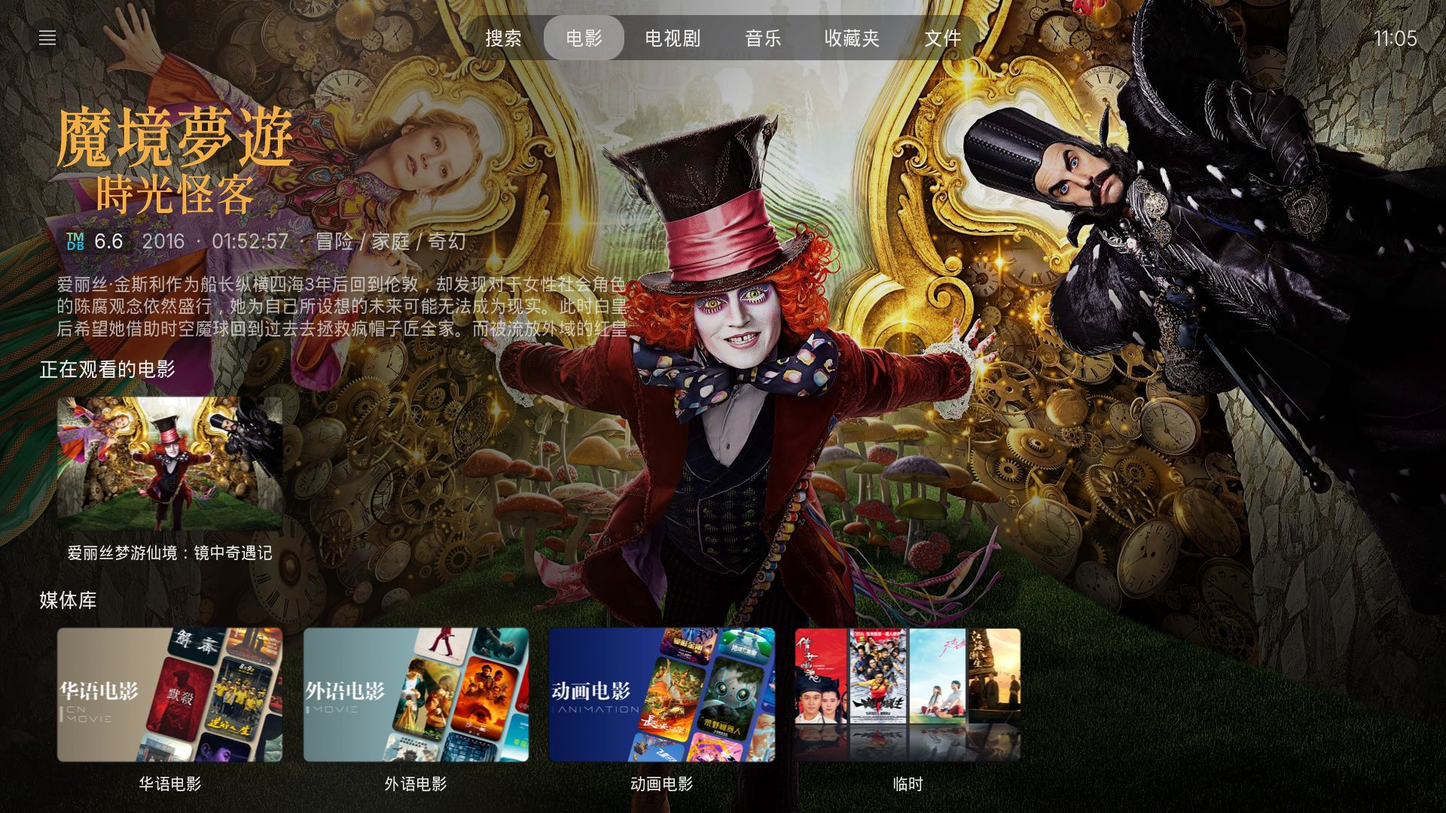
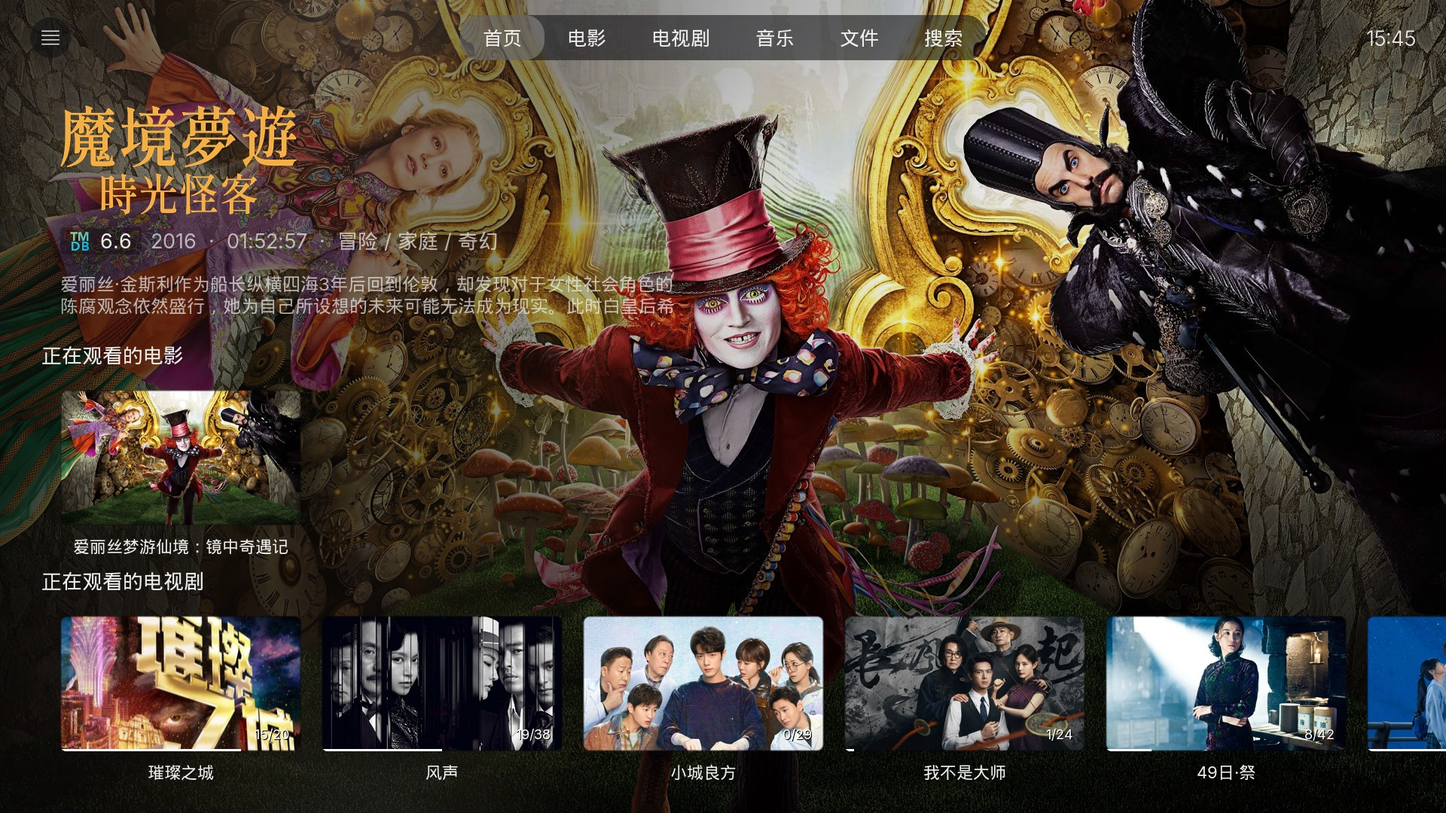
docs: 同步 2.4.0 交接文档与 README 截图

diff --git a/docs/handover-2026-11-19.md b/docs/handover-2026-11-19.md
@@ -1,0 +1,85 @@
+# 交接快照 2026-11-19（2.4.0 发版候选）
+
+> 长期文档看 [`HANDOVER.md`](HANDOVER.md)，硬规矩看 `AGENTS.md`，11-18 快照看
+> [`handover-2026-11-18.md`](handover-2026-11-18.md)。本文只讲 11-18~19 这轮的最终形态、发版状态与遗留。
+
+## 1. 发版状态（以实际为准）
+
+| 项 | 状态 |
+|---|---|
+| 皮肤版本 | `addon.xml` **2.4.0**（本轮升）；`changelog.txt` 顶部 2.4.0 段 |
+| 皮肤依赖 | `script.mistuary.helper` import 下限 **0.5.0 → 0.5.4** |
+| helper 版本 | 插件仓库 `addon.xml` **0.5.4**（本轮升），changelog / README / release.md 兼容表同步 |
+| 发版顺序 | **必须先 helper 0.5.4 → 确认 `v0.5.4` Release → 再皮肤 2.4.0** |
+| 推送 | 皮肤与 helper 均未 push；等用户明确"推送" |
+| 贴图包 | `media/Textures.xbt` 仍是 11-16 旧包，发版前必须 `xbt_tool.py pack` 重打 |
+
+皮肤依赖提升的原因：相似影片按钮 visible 只有 `System.AddonIsEnabled`（`DialogVideoInfo.xml:311`），
+不查版本；它调用的 `mode=similar` 是 helper 0.5.4 新增，0.5.3 没有该接口。
+留 0.5.0 会让旧 helper 用户看到按钮却打不开，故用硬依赖挡住（Kodi 提示升级插件）。
+
+## 2. 本轮改动（按主题）
+
+### 2.1 首页与影视页
+- 两行跨类型续播（电影 / 剧集各一行）延续 11-18 方案 B；本轮补空状态区分本地库 / Emby。
+- 背景轮播（默认开）+ 色光三档（关 / 柔和 / 标准）。
+- 影视背景统一 `scale` 铺满裁切；宽图兜底与色光护栏。
+- 电影/电视剧页媒体库行对齐首页续播行；Hero 间距 30/31/42、第二屏 Hero 上移防压卡片。
+- 首页设置「搜索」移到最后，与主导航顺序一致。
+- 详情页：多版本面板（K22 节点）、更多→相似（关详情再打开完整列表）、上键看完整简介、
+  收藏封面回退（无图时用自己的 Icon 最后才露星标）、5 处 `scalediffuse` 移到 `<aspectratio>`。
+
+### 2.2 音乐页
+- 类别行重做：8 张 200×116 卡，`widget_limit=7` + `additional_music_items` 补第 8 张；
+  类别名文字 `label_top` 74 → 66（上移 8px，`label_top_alt` 背景图分支不生效故未动）。
+- 专辑卡 186×186 → 222×222，遮罩 `mask_222x222_r9`、环 `ring_card_224x224_r10`。
+
+### 2.3 海报墙（View_500）
+- 海报 236×340 → **224×336（严格 2:3）**，left 12 → 18 居中，左右缝 24 → 36（与首页小部件一致）。
+- 卡内图标平移：评分圈 188→182、状态图标 24/58/92→30/64/98、进度条 top 323→319 / 宽 216→204、
+  标题 top 340→336、已播集数 `badge_label_left` 102→92（右缘 242→232，与评分徽章对齐）。
+- 实现：`InfoWallMovieLayout` 加 18 个带默认值参数（默认 = 原 236×340），只有 View_500 传新值；
+  View_54（音乐/图片库）和片单弹窗走默认值，零影响。
+- 新贴图：`mask_224x336_r12.png`、`ring_card_226x338_r13.png`（两个 gen 脚本各登记一行）。
+
+### 2.4 电影页展开态 Hero 简介
+- 字号 27px → 24px（`font13` → `font12_large`），与首页 / 紧凑态统一。
+- 简介容器高 105 → 88，评分行 `top` 191 → 174（两处，保持 24px 间距）。
+- 详情页简介维持 27px（用户改口后恢复，未动）。
+
+### 2.5 设置插件图标
+- `media/settings/addons.png` 改为**细线四扣拼图**：取 settings-hub 实心版的 alpha 形状 →
+  形态学提取轮廓带 → 白色细线稿。线宽 / 圆角与其余细线图标统一（alpha>200 像素 1742，
+  现有图标 1475~2547 同量级）。md5 `275bf493…`。
+- 两次返工教训：① 昨晚 `aa140c2` 的双卡扣拼图形状太简单；② 直接照搬 settings-hub 实心版
+  风格与其余图标冲突。用户要的是"参考形状 + 沿用现有细线风格"。
+
+## 3. 截图（README，全部 16:9 1920×1080）
+
+- `wall.jpg` 必换（海报墙 2:3 + 新间距）、`home.jpg` 建议（两行续播）、`music.jpg`（音乐播放页）。
+- **用户明确要求：所有截图必须在 16:9 1080p 下做**，窗口化 18:9 的不要。
+- 截前先把 Kodi 切回 16:9 全屏：`videoscreen.screen=0` + `videoscreen.resolution=41`（1920×1080p），
+  再让用户 F5 重载皮肤；JSON-RPC 没有 reloadskin 方法，F5 只能用户手动。
+- 该全屏设置曾被 Kodi 回滚到窗口 1920×1009（比例≈1.90 → 判成 18:9），截前务必复查
+  `Skin.AspectRatio` 与 `System.ScreenWidth/Height`。
+
+## 4. 遗留 / 待办
+
+### 4.1 18:9 海报墙做 8 张（下次做）
+- 现象：2160 逻辑宽下格子固定 260、面板 `width=98%`，7 张只占 1820，右侧空 14%
+  （实测：间距 231 屏幕 px、右空 274 px）；16:9 下间距 260、右空仅 3.5%。
+- 根因不是代码回归：Kodi 按窗口宽高比自动选 skin res，窗口 1920×1009 被判成 18:9。
+- 改法：面板 / 格子按宽度百分比自适应（AGENTS.md §3.5：铺满用百分比，不写死），
+  目标 18:9 下 8 张铺满、16:9 下仍 7 张。**需实机验证两种比例，且注意 260 是 7 列实测上限。**
+- README 不提（避免自曝其短 + 下次做完还要删），只记在本文档。
+
+### 4.2 其他
+- `qa-2026-11-19.md` §0 的"当前提交 1b00172"已过时（HEAD 已到 f2fbe83 + 本轮新提交）。
+- `backup/keyboard-nov13` 本地分支仍未合并，别默认当待办（HANDOVER §8 已记）。
+- Emby 离线降级、无宽图详情样本、电视剧相似 UI 入口等验收项见 `qa-2026-11-19.md` §5.2。
+
+## 5. 本轮提交（皮肤）
+
+- `f2fbe83` fix: 电影页展开态 Hero 简介统一 24px 并收紧容器与评分行间距
+- `37a763a` feat: 首页音乐页类别行与专辑卡重做，配套圆角贴图与单测
+- 工作区待递交：图标 + 海报墙 2:3 + 两个 gen 脚本 + 2 张新图，以及本轮的 addon/changelog/README/HANDOVER/快照文档。

diff --git a/docs/HANDOVER.md b/docs/HANDOVER.md
@@ -1,9 +1,9 @@
-# 交接说明（Mistuary 2.3.1）
+# 交接说明（Mistuary 2.4.0）
 
-> ⚠ **当前交接快照看 [`docs/handover-2026-11-18.md`](handover-2026-11-18.md)** ——
-> 2026-11-18 晚已实施方案 B：新页签「首页」放两行跨类型续播，库墙回电影/电视剧页，
-> Hero 间距 30/31/42、背景轮播与色光三档已落地；三态设置已删。工作区改动未提交、
-> 未推送、未发版。**接手先读它**。
+> ⚠ **当前交接快照看 [`docs/handover-2026-11-19.md`](handover-2026-11-19.md)** ——
+> 2026-11-19 在 11-18 方案 B 基础上完成：详情页多版本 / 相似影片、影视背景统一 scale、
+> 音乐页类别行与专辑卡重做、海报墙 2:3 加宽间距、设置插件图标重画。
+> 本轮发版 **2.4.0**（helper 0.5.4），**接手先读它**。
 > 本文是长期文档，讲依赖、工具链与发版，现状以 `addon.xml` / `git status` 为准。
 
 > 读这个之前先读 `.workbuddy-ai/memory/MEMORY.md`（长期约定）。
@@ -54,10 +54,11 @@
 ## 1. 一句话现状
 
 `main` 分支上的通用版皮肤，**Kodi 22 及以上**可用（1.5.2 起不再支持 21，见 §5.2），
-版本以 `addon.xml` 为准（当前 **2.3.1**）；历史发版记录见 §8.2。
-最近一次发版说明见 `changelog.txt` 顶部 2.3.1 段。
-`handover-2026-11-03.md` 已归档，只作当时快照。helper **0.5.3** 已发布
-（服务端搜索的英文人名扩展与同名误命中修正）；皮肤 import 下限保持 **0.5.0**（本版未用 helper 新能力）。
+版本以 `addon.xml` 为准（当前 **2.4.0**）；历史发版记录见 §8.2。
+最近一次发版说明见 `changelog.txt` 顶部 2.4.0 段。
+`handover-2026-11-03.md` 已归档，只作当时快照。helper **0.5.4** 待发布
+（相似影片列表 `mode=similar`）；皮肤 import 下限提到 **0.5.4**（相似入口只查 AddonIsEnabled 不查版本，
+旧 helper 会点了没反应，故用硬依赖挡住）。**必须先发 helper 0.5.4 再发皮肤 2.4.0**。
 原计划单独发布的 1.4.1 与 1.5.0（两个 tag/Release 均已撤回）已合并进 1.5.1。
 
 **接手时先看工作区状态**：截至 2026-11-16，`main` 已与 `origin/main` 对齐，**`v2.3.1` 已发布**
@@ -1289,6 +1290,7 @@ token 从本机 git 凭据取：`git credential fill`（只放进变量，别打
 | `tools/universalize.py` | 4.2.0 → 1.0.0 的一次性迁移脚本，已完成使命，留作参考 |
 | 文件管理器点 flac/wav 弹「选择模拟器」 | **Kodi 侧行为，皮肤改不了**（2026-11-05 查清链条，见 §7.1）。`playercorefactory.xml` 这条路**已确认无效，别再试**。规避：从音乐库 / Emby 播放 |
 | 文件管理器路径行的中文是 `%E7%BD%91%E7%9B%98` | **皮肤改不了**（2026-11-05 实测）：① 该窗口会**按 `id=101` 强写路径标签**，XML 里的 `<label>` / `<visible>` 对它无效，连写死的中文都会被覆盖；② `Container.FolderPath` / `Container.FolderName` / `Container.NumItems` 在 10003 里全是空串，只有焦点项的 `ListItem.FolderPath` 有值。试过用 helper 解码写窗口属性，最终方案要靠"把 101 用动画滑出屏幕"来绕，太脆，**已回退**。要修只能等 Kodi 支持 URL 解码 |
+| 18:9 海报墙右侧留白 / 下次做 8 张 | `View_500` 格子固定 260、面板 `width=98%`，2160 逻辑宽下 7 张只占 1820，右空 14%（16:9 下仅 3.5%）。**不是代码回归**，是 Kodi 按窗口宽高比自动选 skin res（窗口 1920×1009 判成 18:9）。改法：面板 / 格子按宽度百分比自适应，目标 18:9 下 8 张、16:9 下仍 7 张；注意 260 是 7 列实测上限（调到 264 掉 6 列）。详见 `handover-2026-11-19.md` §4.1 |
 
 > **已修（2026-10-27）**：`ListItem.BMP` → `ListItem.BPM`（BPM 徽标现在能显示了）；
 > `ListItem.MusicBitsPerSample` 那条删掉了 —— Kodi 没有列表项位深标签，

diff --git a/README.md b/README.md
@@ -86,15 +86,18 @@
 3. 设置 → 界面 → 皮肤 → 皮肤 → 选 **Mistuary**（或重载皮肤）
 
 > 装 / 卸插件后不重载皮肤，新分支不生效。搜索还需 **Emby for Kodi NextGen**；  
-> 豆瓣评分只需 IMDb id（或库内豆瓣 ID）。建议 **0.5.3+**：英文人名与类型搜索扩展、  
-> 豆瓣分优先读 StrmAssistantPlus 快照（减少直连限流）、背景剧照色光底（0.5.0）、  
-> 未同步剧集浏览（0.4.0）。相关开关在皮肤设置的「媒体」「播放」页。
+> 豆瓣评分只需 IMDb id（或库内豆瓣 ID）。**最低 0.5.4**（相似影片列表，皮肤硬依赖）；  
+> 建议 **0.5.4+**：英文人名与类型搜索扩展、豆瓣分优先读 StrmAssistantPlus 快照（减少直连限流）、  
+> 背景剧照色光底（0.5.0）、未同步剧集浏览（0.4.0）。相关开关在皮肤设置的「媒体」「播放」页。
 
 ## 主要功能
 
 |          |                                                                                       |
 | -------- | ------------------------------------------------------------------------------------- |
 | **界面**   | 真圆角海报墙（遮罩逐像素裁切，非色块盖角）、焦点环贴边、详情页全屏沉浸、演员栏点开                                             |
+| **首页**   | 两行跨类型续播（电影 / 剧集各一行），Hero 跟随聚焦；背景轮播可关，色光三档可调                                          |
+| **版本**   | 详情页多版本面板，同一影片多版本切换；更多菜单可打开完整相似影片列表                                                  |
+| **简介**   | 影视页 Hero 简介字号统一，展开态收紧留白                                                                     |
 | **背景**   | 影视页剧照铺满全屏；当前剧照经 Helper 高斯模糊成色光底，从清晰剧照左缘渗出（35% 淡色光）；底层压暗四档可调（「设置 → 外观 → 背景压暗」，默认 0.50） |
 | **剧集**   | 点开电视剧直接进入剧集详情页版式：季标签与本季集卡片同屏，切换季即换集；所有电视剧入口一致                                         |
 | **评分**   | 评分胶囊（豆瓣 / IMDb / TMDB）：主评分四档可选，详情页豆瓣评分独立开关，一行最多两颗；豆瓣优先读 E4K 同步的类型评分，详情页读不到时 Helper 兜底 |
